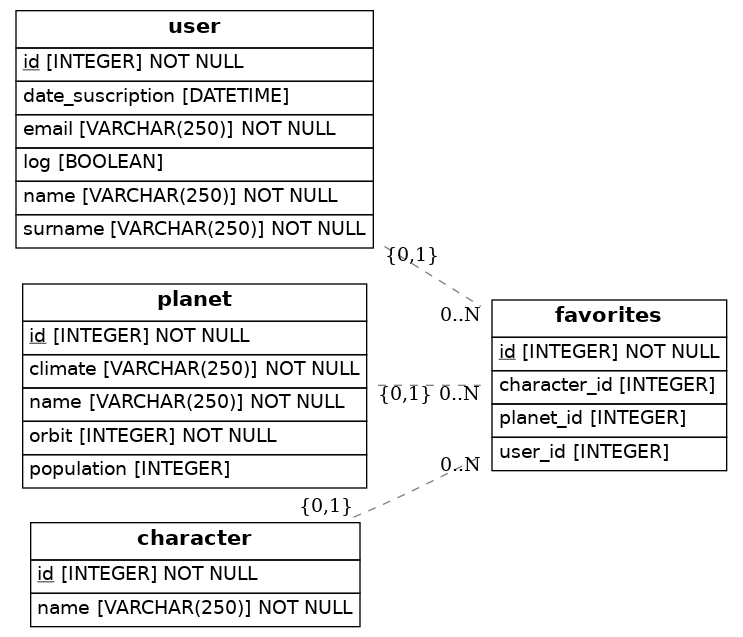
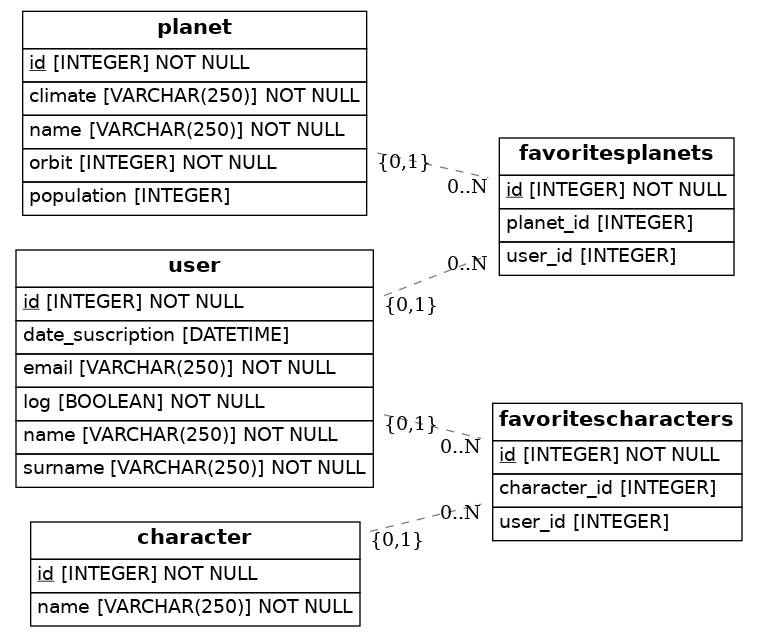
tabla favorites dividida en dos

Changed region(s): [[0.0, 0.0, 0.9906, 0.9843], [0.5882, 0.4772, 0.6501, 0.5071]]

diff --git a/src/models.py b/src/models.py
@@ -8,7 +8,7 @@ from eralchemy2 import render_er
 
 Base = declarative_base()
 
-class user(Base):
+class User(Base):
     __tablename__ = 'user'
     # Here we define columns for the table person
     # Notice that each column is also a normal Python instance attribute.
@@ -17,20 +17,27 @@ class user(Base):
     surname = Column(String(250), nullable=False)
     email = Column(String(250), nullable=False)
     date_suscription = Column(DateTime)
-    log = Column(Boolean), nullable=False)
+    log = Column(Boolean, nullable=False)
 
 
-class favorites(Base):
-    __tablename__ = 'favorites'
+class FavoritesPlanets(Base):
+    __tablename__ = 'favoritesplanets'
     # Here we define columns for the table address.
     # Notice that each column is also a normal Python instance attribute.
     id = Column(Integer, primary_key=True)
     planet_id= Column(Integer, ForeignKey('planet.id'))
+    user_id= Column(Integer, ForeignKey('user.id'))
+
+class FavoritesCharacter(Base):
+    __tablename__ = 'favoritescharacters'
+    # Here we define columns for the table address.
+    # Notice that each column is also a normal Python instance attribute.
+    id = Column(Integer, primary_key=True)
     character_id= Column(Integer, ForeignKey('character.id'))
     user_id= Column(Integer, ForeignKey('user.id'))
    
 
-class planet(Base):
+class Planet(Base):
     __tablename__ = 'planet'
     # Here we define columns for the table address.
     # Notice that each column is also a normal Python instance attribute.
@@ -40,7 +47,7 @@ class planet(Base):
     climate = Column(String(250), nullable=False)
     orbit = Column(Integer, nullable=False)
    
-class character(Base):
+class Character(Base):
     __tablename__ = 'character'
     # Here we define columns for the table address.
     # Notice that each column is also a normal Python instance attribute.
